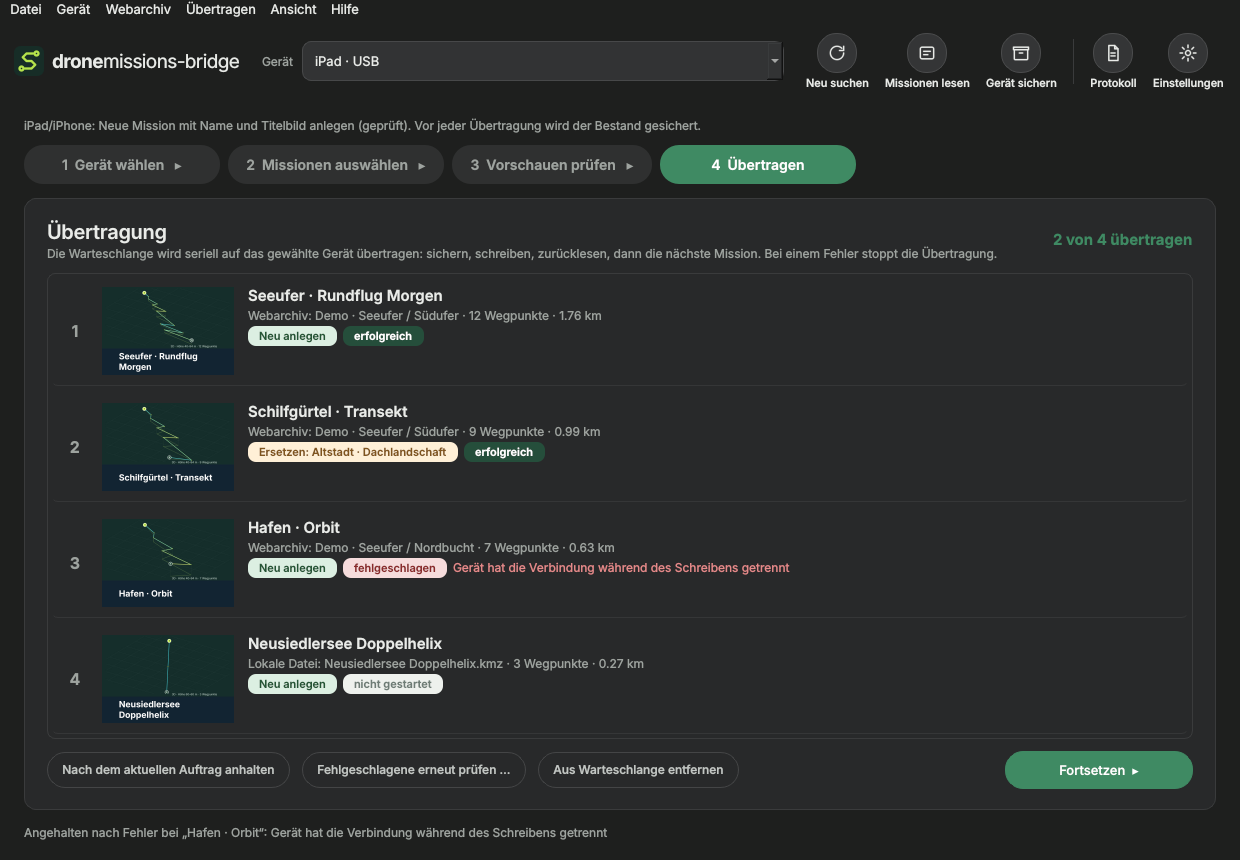
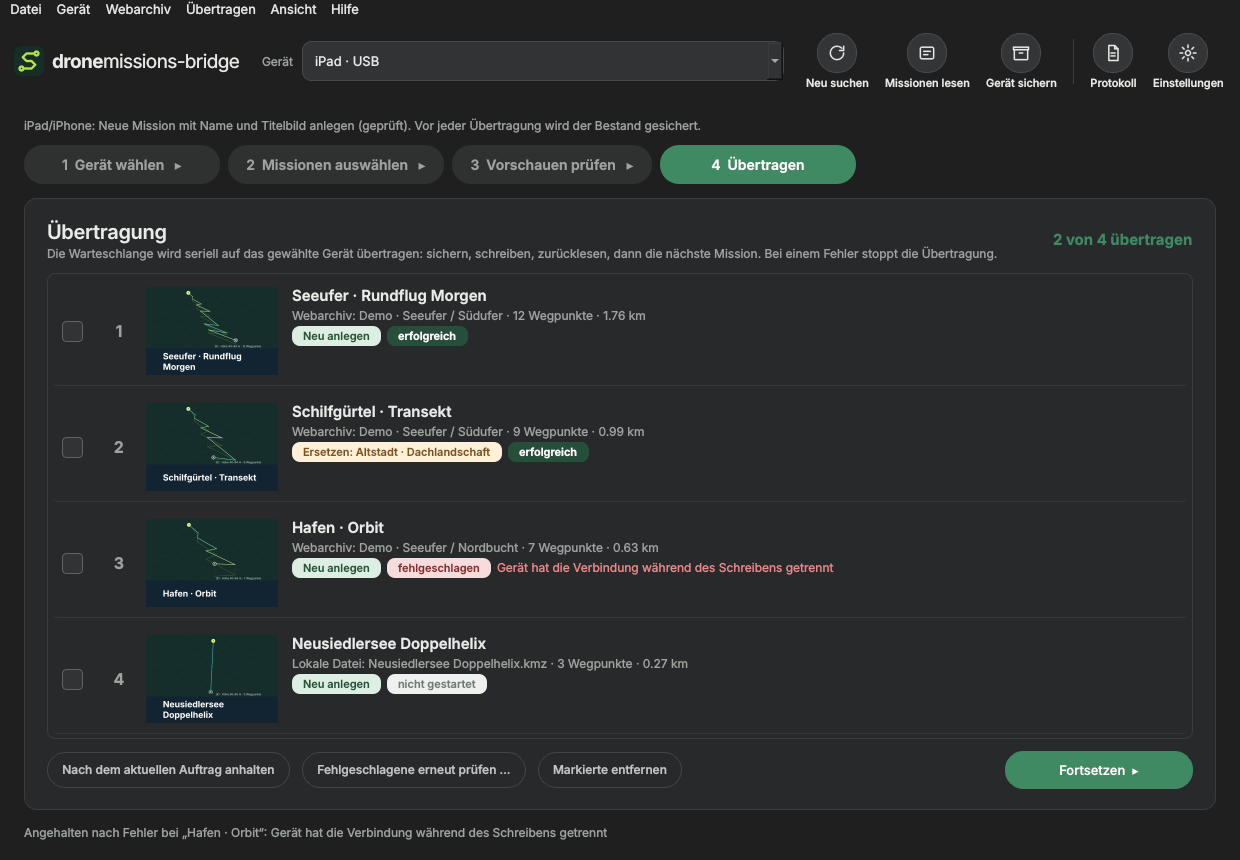
Warteschlange: Checkboxen zum Entfernen, Umbenennen bei angehakter Mission
- Zeilen in Schritt 3 und 4 haben eine Checkbox; „Markierte entfernen“ bzw.
  „Entfernen“ nimmt angehakte Aufträge heraus, sonst den markierten.
  Geprüfte Pläne der übrigen Aufträge bleiben in Schritt 4 erhalten.
- „Umbenennen …“ ist aktiv, sobald genau eine Mission angehakt ist.
- 99 Tests; Bildschirmfotos erneuert.

Claude-Session: https://claude.ai/code/session_014vQgmaf9jbNQvoy9UiW2SB

diff --git a/bridge/desktop.py b/bridge/desktop.py
@@ -141,8 +141,11 @@ class MissionRow(QWidget):
 
 class QueueRow(QWidget):
  """Eine Zeile der Warteschlange: Vorschau, Name, Herkunft, Modus/Ziel, Status."""
- def __init__(self,entry,index,current=False):
-  super().__init__();layout=QHBoxLayout(self);layout.setContentsMargins(10,8,10,8);layout.setSpacing(14)
+ def __init__(self,entry,index,current=False,checked=None,on_toggle=None):
+  """checked/on_toggle: optionale Checkbox zum Markieren für „Markierte entfernen“ (None = keine Checkbox)."""
+  super().__init__();layout=QHBoxLayout(self);layout.setContentsMargins(10,8,10,8);layout.setSpacing(14);self.check=None
+  if on_toggle is not None:
+   self.check=QCheckBox();self.check.setChecked(bool(checked));self.check.setToolTip('Zum Entfernen aus der Warteschlange markieren');self.check.setEnabled(entry['status']!='running');self.check.toggled.connect(lambda state:on_toggle(entry['id'],state));layout.addWidget(self.check,alignment=Qt.AlignVCenter)
   number=QLabel(str(index+1));number.setObjectName('queueNumber');number.setFixedWidth(26);number.setAlignment(Qt.AlignCenter);layout.addWidget(number)
   picture=QLabel();picture.setFixedSize(QSize(132,88));picture.setObjectName('thumb');picture.setAlignment(Qt.AlignCenter)
   pixmap=QPixmap(str(entry['preview'])) if entry.get('preview') and Path(entry['preview']).is_file() else QPixmap()
@@ -161,7 +164,7 @@ class Window(QMainWindow):
   # root: Anwendungsdatenordner; Tests übergeben einen temporären Ordner, damit weder names.json noch Sicherungen des Nutzers berührt werden.
   self.settings=QSettings('studiobaff','DroneMissionsBridge');self.root=Path(root) if root else Path(QStandardPaths.writableLocation(QStandardPaths.AppDataLocation));self.root.mkdir(parents=True,exist_ok=True)
   self.rows=[];self.registry={};self.job=None;self.prepared=None;self.stop_requested=False
-  self.queue=[];self.current=-1;self.pending_target=None;self.mode='new';self.loose_transfer=None;self.quick_timer=QTimer(self);self.quick_timer.setSingleShot(True);self.quick_timer.setInterval(350);self.quick_timer.timeout.connect(self.quick_preview)
+  self.queue=[];self.current=-1;self.pending_target=None;self.mode='new';self.loose_transfer=None;self.queue_checked=set();self.quick_timer=QTimer(self);self.quick_timer.setSingleShot(True);self.quick_timer.setInterval(350);self.quick_timer.timeout.connect(self.quick_preview)
   self.archive=None;self.archive_rows=[];self.archive_widgets=[];self.archive_checked=set();self.archive_selection='all';self.client_factory=client_factory or ArchiveClient;self.credential_store=credential_store or credentials;self.archive_auto=False;self.checked=set();self.device_rows_widgets=[];self.preview_mode=self.settings.value('previewMode','3d') or '3d';self.background_path=None
   try:self.registry=json.loads((self.root/'names.json').read_text())
   except (OSError,ValueError):pass
@@ -279,7 +282,7 @@ class Window(QMainWindow):
   self.queue_list=QListWidget();self.queue_list.setObjectName('missions');self.queue_list.setSelectionMode(QListWidget.SingleSelection);self.queue_list.setSpacing(4);self.queue_list.currentRowChanged.connect(self.queue_selected);left.addWidget(self.queue_list,1)
   self.queue_empty=QLabel('Noch keine Mission in der Warteschlange.\nIn Schritt 2 Missionen aus dem Webarchiv übernehmen oder KMZ-Dateien vom Mac wählen.');self.queue_empty.setObjectName('emptyList');self.queue_empty.setAlignment(Qt.AlignCenter);self.queue_empty.setWordWrap(True);left.addWidget(self.queue_empty,1)
   qa=QHBoxLayout();add=QPushButton('KMZ-Dateien hinzufügen …');add.setObjectName('quiet');add.clicked.connect(self.choose_kmz);qa.addWidget(add)
-  self.queue_remove=QPushButton('Entfernen');self.queue_remove.setObjectName('quiet');self.queue_remove.setEnabled(False);self.queue_remove.clicked.connect(self.remove_current);qa.addWidget(self.queue_remove)
+  self.queue_remove=QPushButton('Entfernen');self.queue_remove.setToolTip('Markierte Aufträge entfernen, sonst den aktuellen.');self.queue_remove.setObjectName('quiet');self.queue_remove.setEnabled(False);self.queue_remove.clicked.connect(self.remove_current);qa.addWidget(self.queue_remove)
   self.queue_clear=QPushButton('Leeren');self.queue_clear.setObjectName('quiet');self.queue_clear.setEnabled(False);self.queue_clear.clicked.connect(self.clear_queue);qa.addWidget(self.queue_clear);qa.addStretch();left.addLayout(qa)
   right=self.card(columns,3);self.editor=QWidget();self.editor.setMinimumWidth(520);ev=QVBoxLayout(self.editor);ev.setContentsMargins(0,0,0,0);ev.setSpacing(12);right.addWidget(self.editor,1)
   mode=QHBoxLayout();mode.setSpacing(6);self.mode_group=QButtonGroup(self);self.mode_group.setExclusive(True)
@@ -331,7 +334,7 @@ class Window(QMainWindow):
   self.run_empty=QLabel('Noch nichts übertragen. In Schritt 3 die Vorschauen prüfen und „Jetzt übertragen“ wählen.');self.run_empty.setObjectName('emptyList');self.run_empty.setAlignment(Qt.AlignCenter);self.run_empty.setWordWrap(True);card.addWidget(self.run_empty,1)
   row=QHBoxLayout();self.stop_button=QPushButton('Nach dem aktuellen Auftrag anhalten');self.stop_button.setObjectName('quiet');self.stop_button.setEnabled(False);self.stop_button.clicked.connect(self.request_stop);row.addWidget(self.stop_button)
   self.retry_button=QPushButton('Fehlgeschlagene erneut prüfen …');self.retry_button.setObjectName('quiet');self.retry_button.setEnabled(False);self.retry_button.clicked.connect(self.retry_failed);row.addWidget(self.retry_button)
-  self.run_remove_button=QPushButton('Aus Warteschlange entfernen');self.run_remove_button.setObjectName('quiet');self.run_remove_button.setEnabled(False);self.run_remove_button.setToolTip('Den markierten Auftrag vor der Übertragung entfernen; die übrigen geprüften Aufträge bleiben bereit.');self.run_remove_button.clicked.connect(self.remove_run_selected);row.addWidget(self.run_remove_button);row.addStretch()
+  self.run_remove_button=QPushButton('Markierte entfernen');self.run_remove_button.setObjectName('quiet');self.run_remove_button.setEnabled(False);self.run_remove_button.setToolTip('Angehakte Aufträge (sonst den markierten) vor der Übertragung entfernen; die übrigen geprüften Aufträge bleiben bereit.');self.run_remove_button.clicked.connect(self.remove_run_selected);row.addWidget(self.run_remove_button);row.addStretch()
   self.resume_button=QPushButton('Fortsetzen  ▸');self.resume_button.setObjectName('primary');self.resume_button.setEnabled(False);self.resume_button.clicked.connect(self.execute);row.addWidget(self.resume_button);card.addLayout(row)
 
  def build_settings_dialog(self):
@@ -447,7 +450,7 @@ class Window(QMainWindow):
  def render_queue(self):
   self.queue_list.blockSignals(True);self.queue_list.clear()
   for i,e in enumerate(self.queue):
-   row=QueueRow(e,i,i==self.current);item=QListWidgetItem();item.setSizeHint(QSize(0,max(104,row.sizeHint().height()+4)));self.queue_list.addItem(item);self.queue_list.setItemWidget(item,row)
+   row=QueueRow(e,i,i==self.current,checked=e['id'] in self.queue_checked,on_toggle=self.queue_toggle);item=QListWidgetItem();item.setSizeHint(QSize(0,max(104,row.sizeHint().height()+4)));self.queue_list.addItem(item);self.queue_list.setItemWidget(item,row)
   if 0<=self.current<len(self.queue):self.queue_list.setCurrentRow(self.current)
   self.queue_list.blockSignals(False);has=bool(self.queue);self.queue_list.setVisible(has);self.queue_empty.setVisible(not has);self.editor.setEnabled(has);self.queue_remove.setEnabled(self.entry() is not None);self.queue_clear.setEnabled(has);self.prepare_button.setEnabled(has)
   prepared=sum(1 for e in self.queue if e['plan']);self.queue_count.setText(f'{len(self.queue)} Mission(en)'+(f' · {prepared} geprüft' if prepared else ''))
@@ -480,10 +483,26 @@ class Window(QMainWindow):
   if not e or not e.get('details') or e['status']=='done':return
   try:e['preview']=render_preview(self.root/'previews'/('quick-'+e['id']+'.jpg'),e['name'].strip() or e['original'].stem,e['details'],e.get('archivePreview') if e['previewMode']=='archive' else None);self.image.set_source(QPixmap(str(e['preview'])));self.render_queue()
   except Exception as err:self.log_line('Schnellvorschau nicht möglich: '+str(err))
+ def queue_toggle(self,entry_id,state):
+  if state:self.queue_checked.add(entry_id)
+  else:self.queue_checked.discard(entry_id)
+  self.update_run_buttons();self.queue_remove.setEnabled(bool(self.queue_checked) or self.entry() is not None)
+ def removal_targets(self,fallback):
+  """Angehakte Aufträge, sonst der übergebene Einzelauftrag; laufende Aufträge nie."""
+  picked=[e for e in self.queue if e['id'] in self.queue_checked and e['status']!='running']
+  if picked:return picked
+  return [fallback] if fallback and fallback['status']!='running' else []
+ def remove_entries(self,entries):
+  if not entries or (self.job and self.job.isRunning()):return 0
+  ids={e['id'] for e in entries};current_id=self.entry()['id'] if self.entry() else None
+  self.queue=[e for e in self.queue if e['id'] not in ids];self.queue_checked-=ids
+  self.current=next((i for i,e in enumerate(self.queue) if e['id']==current_id),min(max(self.current,0),len(self.queue)-1) if self.queue else -1)
+  if self.pending_target and any(e.get('target')==self.pending_target.get('uuid') for e in entries):self.pending_target=None
+  return len(entries)
  def remove_current(self):
-  e=self.entry()
-  if not e:return
-  self.queue.pop(self.current);self.current=min(self.current,len(self.queue)-1);self.invalidate();self.render_queue();self.show_entry()
+  targets=self.removal_targets(self.entry())
+  if not targets:return
+  count=self.remove_entries(targets);self.invalidate();self.render_queue();self.show_entry();self.status.setText(f'{count} Auftrag/Aufträge entfernt.')
  def clear_queue(self):
   if self.job and self.job.isRunning():return
   self.queue=[];self.current=-1;self.pending_target=None;self.invalidate();self.render_queue();self.show_entry();self.render_run_list()
@@ -522,7 +541,7 @@ class Window(QMainWindow):
   if hasattr(self,'queue_list'):self.render_queue()
  def changed_target(self):
   m=self.selected_row();self.cloud_download_button.setEnabled(bool(m and m.get('localState')=='cloud-or-missing'));self.replace_button.setEnabled(m is not None and m.get('localState')=='local');r=self.current_device()
-  self.rename_button.setEnabled(m is not None);self.rename_button.setToolTip('Name in DJI Fly ändern (iPad/iPhone)' if r and r['kind']=='ios' else 'Auf Android nur das Etikett in der Bridge; der DJI-Fly-Name ist dort nicht erreichbar.')
+  self.rename_button.setEnabled(m is not None or len(self.checked)==1);self.rename_button.setToolTip('Name in DJI Fly ändern (iPad/iPhone)' if r and r['kind']=='ios' else 'Auf Android nur das Etikett in der Bridge; der DJI-Fly-Name ist dort nicht erreichbar.')
   if m:self.selected_label.setText(f'Ausgewählt: {self.row_label(r,m,self.rows.index(m))}'+('' if m.get('localState')=='local' else ' · nur lokal vorhandene Missionen lassen sich ersetzen'))
   else:self.selected_label.setText('Kein Eintrag ausgewählt.')
  def invalidate(self,*args):
@@ -675,10 +694,17 @@ class Window(QMainWindow):
   self.device_unsaved_only.setEnabled(self.archive is not None)
   self.save_web_button.setEnabled(bool(local) and self.archive is not None);self.save_web_button.setToolTip('' if self.archive else 'Zuerst mit dem Webarchiv verbinden (Schritt 2 oder Einstellungen).')
   self.sync_preview_button.setEnabled(self.archive is not None and bool(self.preview_sync_candidates()))
+  self.rename_button.setEnabled(self.selected_row() is not None or len(self.checked)==1)
   visible=self.visible_rows();count=sum(m['uuid'] in self.checked for _,m in visible);state=Qt.Checked if visible and count==len(visible) else Qt.PartiallyChecked if count else Qt.Unchecked
   self.select_all.blockSignals(True);self.select_all.setCheckState(state);self.select_all.blockSignals(False)
- def rename_selected(self):
+ def rename_target(self):
+  """Markierte Zeile; sonst die einzige angehakte Mission."""
   m=self.selected_row()
+  if m:return m
+  if len(self.checked)==1:uid=next(iter(self.checked));return next((x for x in self.rows if x['uuid']==uid),None)
+  return None
+ def rename_selected(self):
+  m=self.rename_target()
   if not m:return
   try:r=self.selected_device()
   except Exception as e:self.error(str(e));return
@@ -1001,25 +1027,24 @@ class Window(QMainWindow):
  def render_run_list(self):
   self.run_list.clear()
   for i,e in enumerate(self.queue):
-   row=QueueRow(e,i);item=QListWidgetItem();item.setSizeHint(QSize(0,max(104,row.sizeHint().height()+4)));self.run_list.addItem(item);self.run_list.setItemWidget(item,row)
+   row=QueueRow(e,i,checked=e['id'] in self.queue_checked,on_toggle=self.queue_toggle);item=QListWidgetItem();item.setSizeHint(QSize(0,max(104,row.sizeHint().height()+4)));self.run_list.addItem(item);self.run_list.setItemWidget(item,row)
   has=bool(self.queue);self.run_list.setVisible(has);self.run_empty.setVisible(not has)
   done=sum(1 for e in self.queue if e['status']=='done');self.run_progress.setText(f'{done} von {len(self.queue)} übertragen' if self.queue else '')
   self.retry_button.setEnabled(any(e['status']=='failed' for e in self.queue));self.resume_button.setEnabled(any(e['status'] in ('prepared','skipped') and e['plan'] for e in self.queue) and not (self.job and self.job.isRunning()));self.update_run_buttons()
  def update_run_buttons(self):
   row=self.run_list.currentRow();e=self.queue[row] if 0<=row<len(self.queue) else None
-  self.run_remove_button.setEnabled(e is not None and e['status']!='running' and not (self.job and self.job.isRunning()))
+  self.run_remove_button.setEnabled(bool(self.removal_targets(e)) and not (self.job and self.job.isRunning()))
  def remove_run_selected(self):
-  """Auftrag in Schritt 4 entfernen, ohne die Prüfung der übrigen Aufträge zu verwerfen."""
-  row=self.run_list.currentRow()
-  if (self.job and self.job.isRunning()) or not (0<=row<len(self.queue)) or self.queue[row]['status']=='running':return
-  removed=self.queue.pop(row);self.current=min(max(self.current,0),len(self.queue)-1) if self.queue else -1
-  if self.pending_target and removed.get('target')==self.pending_target.get('uuid'):self.pending_target=None
+  """Angehakte (sonst den markierten) Auftrag in Schritt 4 entfernen, ohne die Prüfung der übrigen Aufträge zu verwerfen."""
+  row=self.run_list.currentRow();targets=self.removal_targets(self.queue[row] if 0<=row<len(self.queue) else None)
+  if (self.job and self.job.isRunning()) or not targets:return
+  removed=targets[0];count=self.remove_entries(targets)
   self.render_queue();self.render_run_list();self.show_entry()
   if self.stack.currentIndex()==1:
    if self.queue:self.render_review()
    else:self.stack.setCurrentIndex(0)
   self.apply_button.setEnabled(bool(self.queue) and self.closed.isChecked() and self.all_prepared())
-  self.status.setText(f'„{removed["name"]}“ aus der Warteschlange entfernt.'+('' if self.queue else ' Die Warteschlange ist leer.'))
+  self.status.setText((f'„{removed["name"]}“ aus der Warteschlange entfernt.' if count==1 else f'{count} Aufträge aus der Warteschlange entfernt.')+('' if self.queue else ' Die Warteschlange ist leer.'))
  def request_stop(self):self.stop_requested=True;self.stop_button.setEnabled(False);self.status.setText('Wird nach dem aktuellen Auftrag angehalten …')
  def retry_failed(self):
   failed=[e for e in self.queue if e['status']=='failed']

diff --git a/bridge/tests/test_queue.py b/bridge/tests/test_queue.py
@@ -195,6 +195,21 @@ class DeviceListTests(QueueTests.__bases__[0]):
             with patch.object(desktop_module.ios,'apply_new',apply_new),patch.object(desktop_module.ios,'run',run):
                 w.execute();QueueTests.wait(self,lambda:not (w.job and w.job.isRunning()),'execute')
             self.assertEqual(calls,['A','C']);w.run_list.setCurrentRow(0);w.remove_run_selected();self.assertEqual([e['name'] for e in w.queue],['C'])
+    def test_checkboxes_remove_several_entries_at_once(self):
+        w=self.window;self.select('ios')
+        with tempfile.TemporaryDirectory() as t:
+            for n in ('A','B','C','D'):
+                path=Path(t)/(n+'.kmz');path.write_bytes(KMZ);w.add_entry(path)
+            w.tabs.setCurrentIndex(TAB_RUN);rows=[w.run_list.itemWidget(w.run_list.item(i)) for i in range(w.run_list.count())]
+            rows[0].check.setChecked(True);rows[2].check.setChecked(True);self.assertEqual(len(w.queue_checked),2);self.assertTrue(w.run_remove_button.isEnabled())
+            w.remove_run_selected();self.assertEqual([e['name'] for e in w.queue],['B','D']);self.assertEqual(w.queue_checked,set());self.assertIn('2 Aufträge',w.status.text())
+            w.tabs.setCurrentIndex(TAB_TRANSFER);rows=[w.queue_list.itemWidget(w.queue_list.item(i)) for i in range(w.queue_list.count())];rows[1].check.setChecked(True);w.remove_current();self.assertEqual([e['name'] for e in w.queue],['B'])
+            w.remove_current();self.assertEqual(w.queue,[])  # ohne Haken: aktueller Auftrag
+    def test_rename_is_available_for_a_single_checked_mission(self):
+        w=self.window;self.select('ios');w.show_rows(w.device.currentData(),[{'uuid':UID,'name':'Eins','waypoints':2,'localState':'local','preview':False},{'uuid':UID.replace('A','B'),'name':'Zwei','waypoints':2,'localState':'local','preview':False}])
+        w.list.clearSelection();w.list.setCurrentRow(-1);self.assertFalse(w.rename_button.isEnabled())
+        w.device_rows_widgets[1][1].check.setChecked(True);self.assertTrue(w.rename_button.isEnabled());self.assertEqual(w.rename_target()['name'],'Zwei')
+        w.device_rows_widgets[0][1].check.setChecked(True);self.assertFalse(w.rename_button.isEnabled());self.assertIsNone(w.rename_target())
     def test_device_rows_fall_back_to_the_archive_picture_and_sync_previews_to_the_archive(self):
         from core import digest
         from PySide6.QtGui import QPixmap

diff --git a/bridge/README.md b/bridge/README.md
@@ -148,6 +148,7 @@ Tests dazu: `tests/test_theme.py` (beide Schemata ohne offene Platzhalter, Icons
 - **Symbolleiste wie macOS 26**: Icon im Kreis, Beschriftung darunter; Knöpfe als Kapseln, Schritte als Kapseln, Felder stärker gerundet; Infoblock mit Rahmen. Die dunkle Palette ist neutral grau mit grünem Akzent. Nach Apples Human Interface Guidelines (Toolbars, Buttons, Segmented Controls, gelesen 2026-11-08): einfarbige Symbolleiste ohne getönte Knöpfe, je Ansicht nur ein hervorgehobener Knopf (in Schritt 1 ist das „Neu anlegen“, „Ausgewählte ersetzen“ ist jetzt ein normaler Knopf), Auslassungspunkte bei Knöpfen, die ein weiteres Fenster öffnen, Tooltips für jedes Segment.
 - **Gerätebilder**: „Missionen lesen“ liest auf dem iPad jetzt auch DJI Flys Titelbild je Mission (JPEG, gleiches Lesebudget wie die KMZ-Dateien). Fehlt das Bild auf dem Gerät, zeigt die Liste das Vorschaubild der identischen Archivmission (Tooltip nennt die Quelle).
 - **Vorschauen ins Webarchiv**: Für angehakte (sonst alle sichtbaren) Missionen mit Gerätebild und identischer Archivkopie speichert der Knopf das DJI-Fly-Titelbild als aktive Vorschau im Webarchiv (Vorschau-Editor, Modus „Foto“, über `preview-save` mit Revision und Version). KMZ-Dateien und bisherige Vorschauen bleiben erhalten; bei zwischenzeitlichen Änderungen im Archiv lehnt der Server ab und nichts wird überschrieben.
-- **Schritt 4 vor der Übertragung**: Die Warteschlange ist dort schon sichtbar; „Aus Warteschlange entfernen“ nimmt den markierten Auftrag heraus, ohne die Prüfung der übrigen zu verwerfen. Während der Übertragung ist Entfernen gesperrt.
+- **Schritt 4 vor der Übertragung**: Die Warteschlange ist dort schon sichtbar. Jede Zeile hat eine Checkbox; „Markierte entfernen“ nimmt die angehakten (sonst den markierten) Aufträge heraus, ohne die Prüfung der übrigen zu verwerfen. Dieselben Checkboxen gelten in Schritt 3 für „Entfernen“. Laufende Aufträge lassen sich nicht entfernen.
+- **Umbenennen** ist auch aktiv, wenn genau eine Mission angehakt ist (nicht nur bei markierter Zeile).
 
-Tests: 97, davon neu iPad-Bildlesen (`test_ios.py`), `save_preview` gegen den API-Fake (`test_archive.py`), Archivbild-Rückfall, Vorschau-Sync und Entfernen in Schritt 4 (`test_queue.py`).
+Tests: 99, davon neu iPad-Bildlesen (`test_ios.py`), `save_preview` gegen den API-Fake (`test_archive.py`), Archivbild-Rückfall, Vorschau-Sync und Entfernen in Schritt 4 (`test_queue.py`).

diff --git a/dronemissions/docs/HANDOFF.md b/dronemissions/docs/HANDOFF.md
@@ -73,7 +73,7 @@ Nächste Schritte: Auf dem Mac `python bridge/build_desktop.py` ausführen, die 
 
 ## Bridge 0.6.0 (Branch `claude/drone-missions-ui-handoff-4nsj6e`, Stand 2026-11-08)
 
-Gestaltungsdurchgang nach dem Apple-Design-Skill, Logik unverändert: Systemschrift, helles und dunkles Schema folgen dem System (`bridge/theme.py`), Symbolleiste mit Icon und Beschriftung, Schlüssel-Wert-Infoblock auf der Prüfseite, Projektbaum ohne Fokusrahmen, Vorschaubilder passen sich dem Platz an, Warteschlange zeigt sofort Bilder, Archivbild aus dem Webarchiv als Standard-Titelbild für Archivmissionen. Einstellungsfenster in einer Scrollfläche, damit sich Zeilen auf dem Mac nicht mehr überlagern. Nachtrag: App-Name `dronemissions-bridge` (Bundle umbenannt, Einstellungen/Schlüsselbund unverändert), Wortmarke wie die Website, Symbolleiste mit Kreis-Icons wie macOS 26, Kapsel-Knöpfe, iPad-Titelbilder werden beim Lesen geladen, Archivbild als Rückfall, „Vorschauen ins Webarchiv“ (API `preview-save`), Entfernen in Schritt 4. Web-App: Fenstertitel `dronemissions`. Bildschirmfotos hell und dunkel unter `bridge/docs/screenshots-0.5/`. 97 Tests ohne Gerät.
+Gestaltungsdurchgang nach dem Apple-Design-Skill, Logik unverändert: Systemschrift, helles und dunkles Schema folgen dem System (`bridge/theme.py`), Symbolleiste mit Icon und Beschriftung, Schlüssel-Wert-Infoblock auf der Prüfseite, Projektbaum ohne Fokusrahmen, Vorschaubilder passen sich dem Platz an, Warteschlange zeigt sofort Bilder, Archivbild aus dem Webarchiv als Standard-Titelbild für Archivmissionen. Einstellungsfenster in einer Scrollfläche, damit sich Zeilen auf dem Mac nicht mehr überlagern. Nachtrag: App-Name `dronemissions-bridge` (Bundle umbenannt, Einstellungen/Schlüsselbund unverändert), Wortmarke wie die Website, Symbolleiste mit Kreis-Icons wie macOS 26, Kapsel-Knöpfe, iPad-Titelbilder werden beim Lesen geladen, Archivbild als Rückfall, „Vorschauen ins Webarchiv“ (API `preview-save`), Entfernen per Checkbox in Schritt 3 und 4, Umbenennen bei einer angehakten Mission. Web-App: Fenstertitel `dronemissions`. Bildschirmfotos hell und dunkel unter `bridge/docs/screenshots-0.5/`. 99 Tests ohne Gerät.
 
 ## Bridge 0.5.0 (Branch `claude/drone-missions-ui-handoff-4nsj6e`, Stand 2026-11-08)
 
